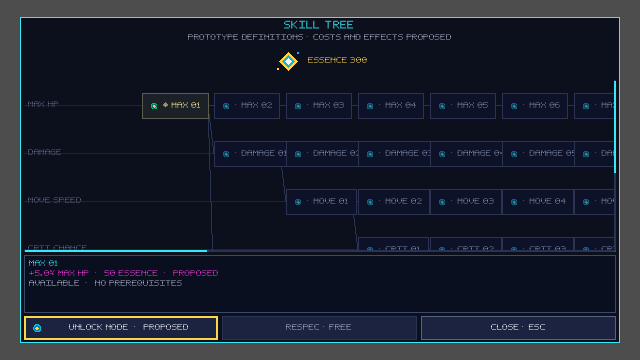
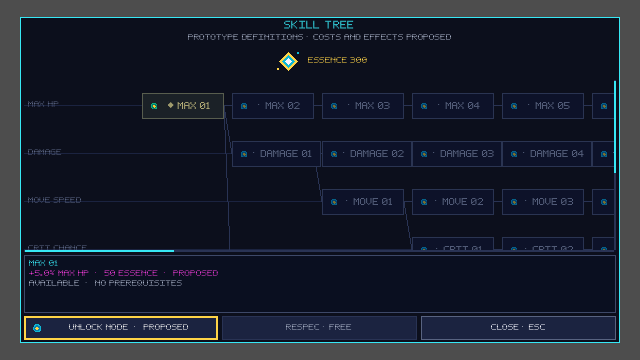
ui: improve skill tree node readability

diff --git a/docs/specs/SPEC-skill-tree.md b/docs/specs/SPEC-skill-tree.md
@@ -11,7 +11,8 @@ Godot 4.7.2, `Control`, GDScript et système de progression existant (`game/scri
 ### Avancement (2026-10-18)
 
 - **[PROPOSÉ]** La page affiche les définitions actuellement exposées par `ProgressionService` sous forme de graphe ramifié: liens depuis `prerequisites`, rangs de statistiques et branches de déblocages d’armes/reliques. Le smoke confirme les 100 définitions runtime actuelles, les états, coûts et effets dérivés du service, ainsi que navigation clavier/manette, sélection, déblocage délégué, respec et état d’erreur.
-- **[VALIDÉ]** Cette tranche ne modifie ni les données de nœuds, ni les coûts/effets, ni le service de progression. Les paramètres qui portent `PROPOSED` restent proposés; l’UI les identifie comme tels. Capture 640×360 inspectée à `/tmp/dopamine-skill-tree.png`; smoke exécuté le 2026-10-18 et cadre du graphe vérifié dans les viewports 640×360, 1280×720 et 1920×1080. Cette assertion vérifie le cadre et son inclusion dans le viewport; elle ne mesure pas la lisibilité de chaque nœud à chaque taille ni les contrôles physiques.
+- **[VALIDÉ]** Cette tranche ne modifie ni les données de nœuds, ni les coûts/effets, ni le service de progression. Les paramètres qui portent `PROPOSED` restent proposés; l’UI les identifie comme tels. Capture 640×360 inspectée et indexée dans `docs/art/evidence/2026-10-18/skill-tree.png`; smoke exécuté le 2026-10-18 et cadre du graphe vérifié dans les viewports 640×360, 1280×720 et 1920×1080. Cette assertion vérifie le cadre et son inclusion dans le viewport; elle ne mesure pas la lisibilité de chaque nœud à chaque taille ni les contrôles physiques.
+- **[VALIDÉ — AJUSTEMENT DE LISIBILITÉ, 2026-10-18]** La largeur des boutons de nœud passe à 82 px et la fonte à 9 px; les colonnes sont espacées en conséquence et le graphe conserve le défilement bidirectionnel. Les 100 définitions et leurs libellés restent dérivés du service, sans ajout de contenu. Capture renouvelée et smoke du graphe réussi.
 - **[OUVERT]** Les définitions actuelles comprennent des valeurs proposées et constituent les données existantes du prototype; leur validation de design/équilibrage reste hors de cette tranche. La mise en page choisie pour cette implémentation est une carte de graphe navigable par scroll sur deux axes.
 
 ## Commandes de vérification

diff --git a/docs/art/evidence/2026-10-18/README.md b/docs/art/evidence/2026-10-18/README.md
@@ -6,7 +6,7 @@ Captures 640×360 générées avec Godot 4.7.2 sous Xvfb/Mesa llvmpipe. Les smok
 |---|---|---|
[7 lines of base64/hex data omitted]

diff --git a/docs/qa/TESTS.md b/docs/qa/TESTS.md
@@ -2220,3 +2220,9 @@ Note de clôture : le blocage historique du smoke `sandbox_ui_smoke.gd` décrit 
 - [x] `godot_project_import`, `equipment_panel_visual_smoke` et `survival_inventory_smoke` passent par CTest (**3/3**). Le smoke visuel contrôle aussi Annuler et le focus initial; le parcours persistant vérifie qu’ouvrir le dialogue ne retire rien avant confirmation, puis vend via SELL.
 - [x] Capture 640×360 examinée et indexée dans `docs/art/evidence/2026-10-18/README.md`.
 - [i] La confirmation de vente est couverte; les autres branches interactives et la revue avec périphériques physiques restent ouvertes.
+
+## Lisibilité des nœuds du skill tree — 2026-10-18
+
+- [x] L’inspection de la capture 640×360 a motivé des boutons de graphe de 82 px, des libellés 9 px et un espacement de colonnes adapté. Les définitions et états restent ceux de `ProgressionService`; aucune compétence ni règle n’a été ajoutée.
+- [x] `godot_project_import` et `skill_tree_panel_visual_smoke` passent par CTest (**2/2**); le smoke contrôle toujours les 100 nœuds runtime, les prérequis acycliques, le focus clavier/manette et les bornes à trois résolutions.
+- [x] Capture `skill-tree.png` régénérée, inspectée et hash indexé. Lisibilité de tous les nœuds et contrôle physique restent **[OUVERTS]**.
